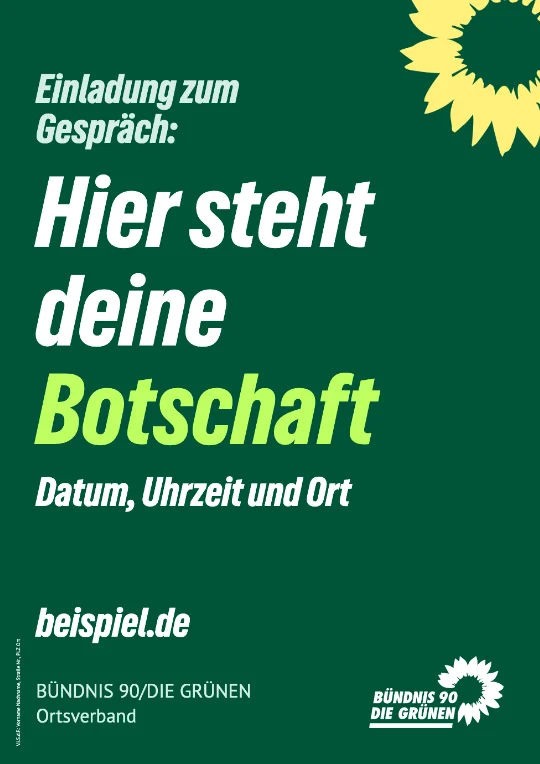
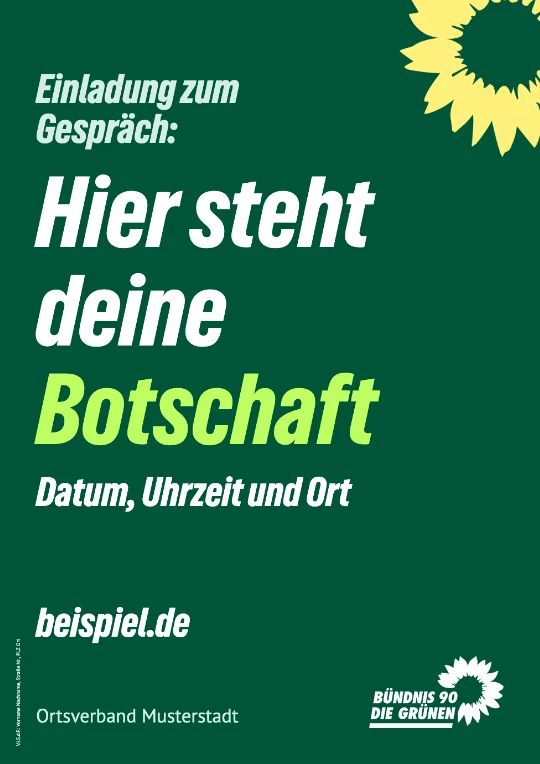
fix(canvas-editor): drop party name from poster placeholder sender

Changed region(s): [[0.0593, 0.873, 0.4741, 0.9634]]

diff --git a/packages/canvas-editor/src/composer/printVorlagen.ts b/packages/canvas-editor/src/composer/printVorlagen.ts
@@ -88,7 +88,7 @@ export const PRINT_VORLAGEN = [
         akzent: 'Botschaft',
         subline: 'Datum, Uhrzeit und Ort',
         web: 'beispiel.de',
-        absender: 'BÜNDNIS 90/DIE GRÜNEN Ortsverband',
+        absender: 'Ortsverband Musterstadt',
       },
     },
   },
@@ -144,7 +144,7 @@ export const PRINT_VORLAGEN = [
         akzent: 'Botschaft',
         subline: 'Datum, Uhrzeit und Ort',
         web: 'beispiel.at',
-        absender: 'Die Grünen Bezirksgruppe',
+        absender: 'Bezirksgruppe Musterstadt',
       },
     },
   },
